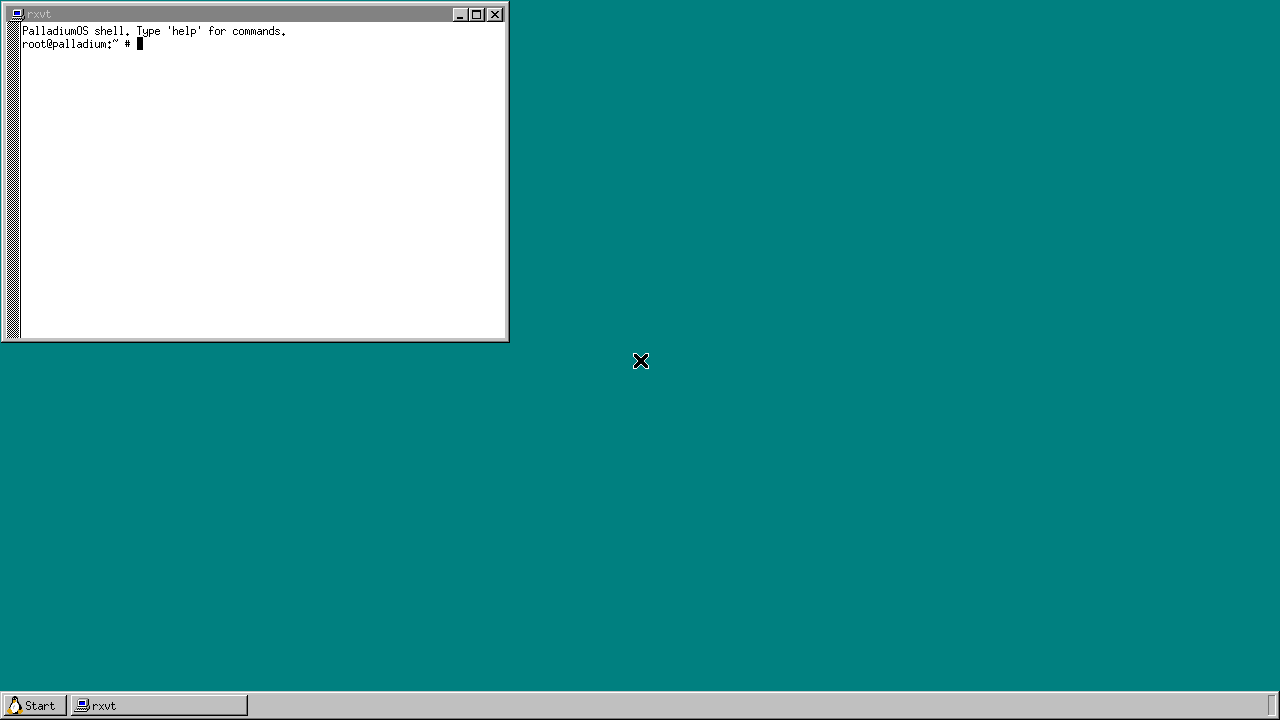
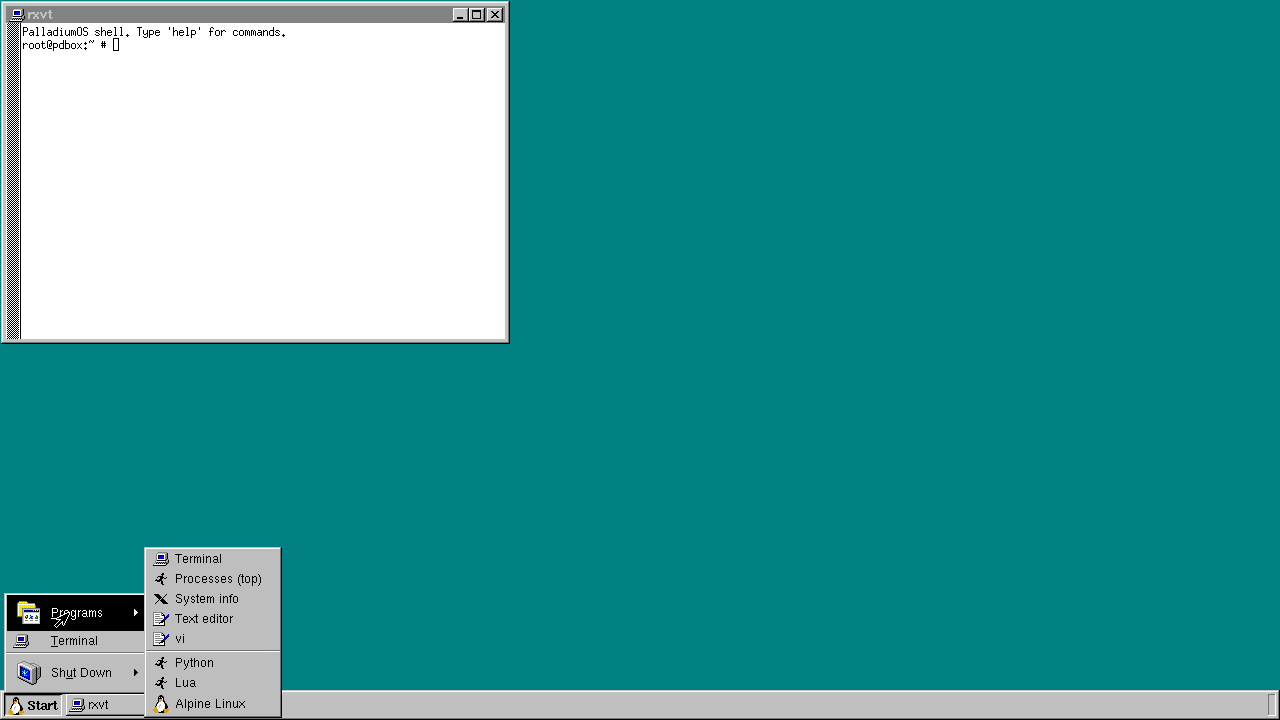
X fonts: Helvetica and the classic bitmap fonts; a 4-core deadlock
X has real fonts now: fvwm95's titles, menus and taskbar are in
Helvetica, as in its own setup, and X programs can ask for misc's fixed
fonts (fixed, 6x13, 7x14, 9x15...) and Adobe's Helvetica, Courier, Times
and New Century Schoolbook.

- tools/ports/fonts.sh: font-misc-misc 1.1.3 and font-adobe-75dpi 1.0.4
  (signed by Alan Coopersmith), compiled to PCF by bdftopcf 1.1.2 (built
  for the build machine), gzipped, into /usr/share/fonts/X11/{misc,75dpi}
  on the system disk (2.6 MB), with fonts.dir written from the fonts'
  names and a fonts.alias for the short names. (Read as BDF, the Unicode
  fixed font kept the X server busy for seconds at every start.) The big
  Japanese and Korean misc fonts are left out.
- tinyx.sh: the default font path is those, then the built-ins.
- fvwm95's configuration: Helvetica 12 (bold titles and Start).
- build-all.sh: fonts; a port's fingerprint includes its own directory
  (tools/ports/fvwm95/'s configuration didn't count).
- A deadlock on more cores, which the desktop found: a process waiting
  for another in a loop around schedule() kept the kernel lock on its
  core, while the other process's core waited for it. schedule(), when
  it has nothing to switch to, now lets the kernel go for a moment.
- README: the fonts, the port, their licences; the desktop screenshot.

Checked in QEMU on 1 and 4 cores: the desktop in Helvetica, up as fast
as before. All 213 tests pass on one core, the 145 usermode tests on 4.
[…]

Changed region(s): [[0.0, 0.7333, 1.0, 1.0], [0.0, 0.0306, 0.4062, 0.4889], [0.5, 0.4889, 0.5312, 0.5194]]

diff --git a/src/process.rs b/src/process.rs
@@ -550,7 +550,24 @@ pub fn schedule() {
             }
             None => return,
         }
-    })
+    });
+    // Nothing else to run here, and the caller goes on: on more cores, let
+    // the kernel go for a moment. The caller may be waiting for a process
+    // another core is running, which may be waiting to get into the kernel
+    // (a loop around schedule() on one core would never let it in).
+    if multi {
+        breathe();
+    }
+}
+
+/// Let other cores have the kernel for a moment (if they want it).
+fn breathe() {
+    if crate::smp::unlock_kernel_for_others() {
+        for _ in 0..64 {
+            core::hint::spin_loop();
+        }
+        crate::smp::lock_kernel();
+    }
 }
 
 /// Let other ready processes run (sched_yield).

diff --git a/src/smp.rs b/src/smp.rs
@@ -122,6 +122,13 @@ pub fn unlock_kernel() {
     let _ = BKL.compare_exchange(me, 0, Ordering::Release, Ordering::Relaxed);
 }
 
+/// Let the big kernel lock go if this core has it, for others to take
+/// (the caller takes it back). Returns whether it was let go.
+pub fn unlock_kernel_for_others() -> bool {
+    let me = cpu_index() + 1;
+    BKL.compare_exchange(me, 0, Ordering::Release, Ordering::Relaxed).is_ok()
+}
+
 /// Inside the kernel until dropped: for interrupt and fault handlers. It
 /// takes the lock if this core didn't have it (it interrupted a program,
 /// or idle), and gives it back when the handler returns.

diff --git a/README.md b/README.md
@@ -251,7 +251,7 @@ Programs can have threads: musl's pthreads (mutexes, condition variables, semaph
 PalladiumOS starts every CPU core the firmware lists (ACPI's MADT): the first one sends the others INIT and startup signals through its local APIC, and each runs a small trampoline below 1 MiB from 16-bit real mode into 64-bit mode, then takes processes from the same scheduler. `nproc`, `/proc/cpuinfo`, `/proc/stat`, htop and `getcpu` see them. `cargo run` gives QEMU as many cores as your machine has, up to 4 (`cargo run -- -smp 2` for another number); the release images boot with any number (`-smp 4` to QEMU).
 
 * Programs run on all cores at the same time: four CPU-bound programs take about as long as one (3.2 times faster than on one core in QEMU).
-* The kernel runs on one core at a time: a core takes the big kernel lock on its way into the kernel (a system call, an interrupt or fault from a program) and lets it go on its way back, so the kernel's code stays as simple as on one CPU. System-call-heavy work doesn't get faster yet.
+* The kernel runs on one core at a time: a core takes the big kernel lock on its way into the kernel (a system call, an interrupt or fault from a program) and lets it go on its way back (or while it waits, and for a moment whenever it looks for something else to run and finds nothing), so the kernel's code stays as simple as on one CPU. System-call-heavy work doesn't get faster yet.
 * A process's threads take turns: two threads of one address space never run at the same moment, so no core ever uses page mappings another core has changed (no TLB shootdowns needed yet).
 * The first core keeps the PIT timer and the devices' interrupts (through its APIC in virtual-wire mode); the others have their APIC's timer, for preemption.
 * `PALLADIUM_SMP=4 cargo test` runs the test suite's programs on 4 cores; `tests/smp.rs` checks starting them.
@@ -284,6 +284,7 @@ Real-world programs are built from their original source by scripts in `tools/po
 * `tools/ports/dropbear.sh`: Dropbear SSH 2026.94 (GPG-signed release, checksum-pinned): `dropbear` (the server), `dbclient` (a client), `dropbearkey` and `scp`. See [SSH](#ssh).
 * `tools/ports/tinyx.sh`: the X server, TinyX's `Xfbdev`, and the X libraries it and X programs need (libX11 on libxcb, libXext, libXfont 1.5 without FreeType, zlib...), static, into `target/ports/x11`. See [X](#the-x-window-system).
 * `tools/ports/x11-clients.sh`: X programs built on those libraries: `rxvt` 2.7.10 (a terminal) and `evilwm` 1.5 (a window manager), patched for the X server's built-in fonts and its lack of XKB.
+* `tools/ports/fonts.sh`: X.Org's bitmap fonts, font-misc-misc 1.1.3 and font-adobe-75dpi 1.0.4, compiled to PCF by bdftopcf 1.1.2 (built for the build machine) and gzipped, with a `fonts.dir` and `fonts.alias` made here, into `/usr/share/fonts/X11` on the system disk (2.6 MB).
 * `tools/ports/fvwm95.sh`: fvwm95 2.0.43f, the window manager with the Windows 95 look, with libXpm 3.5.20 (and xbitmaps' headers), all on the system disk: `/usr/bin/fvwm95` and `xpmroot`, and in `/usr/lib/X11` its modules (FvwmTaskBar...), PalladiumOS's configuration (`tools/ports/fvwm95/system.fvwm95rc`) and its icons.
 
 The binaries are ordinary Linux static executables too, so they can be run on a Linux host to compare behaviour.
@@ -358,7 +359,7 @@ startx evilwm       # or the X server and the programs you name
 * rxvt runs the PalladiumOS shell. Its programs work as anywhere else (`rxvt -e busybox top` runs one in a window of its own).
 * **Ctrl+Alt+Backspace** stops the X server and gives the console back. X's messages are in `/tmp/Xfbdev.log`.
 
-What the kernel provides for it: `/dev/fb0` (the Linux framebuffer ioctls, and `mmap` of the screen itself), the console's VT and keyboard ioctls (graphics mode, medium-raw keycodes, the keymap), a PS/2 mouse (`/dev/input/mice`, `/dev/psaux`, with the IntelliMouse wheel protocol), `SIGIO` on input, and Unix-domain sockets for X's clients. The fonts are libXfont's two built-in ones (`fixed` and `cursor`). `cargo run` gives the screen 1280x720; with the release images, add `-vga none -device VGA,edid=on,xres=1280,yres=720` to QEMU. X needs QEMU's window: click into it for the mouse, and Ctrl+Alt+G lets the mouse go again.
+What the kernel provides for it: `/dev/fb0` (the Linux framebuffer ioctls, and `mmap` of the screen itself), the console's VT and keyboard ioctls (graphics mode, medium-raw keycodes, the keymap), a PS/2 mouse (`/dev/input/mice`, `/dev/psaux`, with the IntelliMouse wheel protocol), `SIGIO` on input, and Unix-domain sockets for X's clients. Fonts: X.Org's classic bitmap fonts in `/usr/share/fonts/X11` (`misc`: `fixed`, `6x13`, `7x14`, `9x15`...; `75dpi`: Adobe's Helvetica, Courier, Times, New Century Schoolbook), Unicode-encoded, which fvwm95 uses (Helvetica) and any X program can ask for (`rxvt -fn 9x15`), then libXfont's built-in `fixed` and `cursor`. `cargo run` gives the screen 1280x720; with the release images, add `-vga none -device VGA,edid=on,xres=1280,yres=720` to QEMU. X needs QEMU's window: click into it for the mouse, and Ctrl+Alt+G lets the mouse go again.
 
 ## Alpine Linux
 PalladiumOS can run [Alpine Linux](https://alpinelinux.org)'s userland, its package manager and its packages, unchanged: Alpine builds everything against musl, dynamically linked, which is what PalladiumOS runs.
@@ -392,7 +393,7 @@ The tiny user programs used by the tests live in `tests/user_progs` (`./build.sh
 |------|------------|---|
 | `/` | ext2 on the disk | saved; falls back to memory if there's no disk |
 | `/bin` | memory | the bundled programs, refreshed every boot |
-| `/usr` | ext2 on the system disk, read-only | BusyBox's links, musl's headers and libraries (for tcc), the shared libraries, fvwm95 and its files, rebuilt every build as `target/usr.img` |
+| `/usr` | ext2 on the system disk, read-only | BusyBox's links, musl's headers and libraries (for tcc), the shared libraries, fvwm95 and its files, X's fonts, rebuilt every build as `target/usr.img` |
 | `/alpine` | ext2 on the Alpine disk | Alpine Linux, once `alpine` has set it up (`target/alpine.img`) |
 | `/tmp` | memory | cleared on reboot |
 | `/dev` | devfs | `null`, `zero`, `random`, `urandom`, `tty`, `console`, `tty0`/`tty1` (the console), `ptmx`, `pts/N`, `fb0` (the screen), `input/mice` and `psaux` (the mouse), `shm/` |
@@ -485,6 +486,7 @@ The release images include software by other people, under their own licences. P
 | [evilwm](https://www.6809.org.uk/evilwm/) | 1.5 | permissive (the aewm and 9wm licences; see its `README`) | `/bin/evilwm` | [evilwm-1.5.tar.gz](https://www.6809.org.uk/evilwm/evilwm-1.5.tar.gz); PalladiumOS's changes are in `tools/ports/x11-clients.sh` |
 | [fvwm95](https://sourceforge.net/projects/fvwm95/) | 2.0.43f | fvwm's licence (Robert Nation's: any use, keeping the copyright notices) for fvwm's own code, GPL-2.0-or-later for the rest (its `GPL`; see each file) | `/usr/bin/fvwm95`, `/usr/bin/xpmroot`, `/usr/lib/X11/fvwm95` (modules), `/usr/lib/X11/pixmaps` and `mini-icons` | [fvwm95-2.0.43f.tar.gz](https://downloads.sourceforge.net/project/fvwm95/fvwm95/2.0.43f/fvwm95-2.0.43f.tar.gz); PalladiumOS's changes and configuration are in `tools/ports/fvwm95.sh` and `tools/ports/fvwm95/` |
 | [libXpm](https://www.x.org), [xbitmaps](https://www.x.org) | 3.5.20, 1.1.4 | MIT/X11-style; see each one's `COPYING` | linked into fvwm95 (libXpm); headers only (xbitmaps) | [libXpm-3.5.20.tar.xz](https://www.x.org/releases/individual/lib/libXpm-3.5.20.tar.xz), [xbitmaps-1.1.4.tar.xz](https://www.x.org/releases/individual/data/xbitmaps-1.1.4.tar.xz) |
+| [X.Org fonts](https://www.x.org): font-misc-misc, font-adobe-75dpi | 1.1.3, 1.0.4 | misc: public domain; Adobe's: their licence (copying and use with the notice; see each one's `COPYING`, also in `/usr/share/fonts/X11/*/COPYING`) | `/usr/share/fonts/X11` (bdftopcf 1.1.2, MIT, only converts them while building) | [font-misc-misc-1.1.3.tar.xz](https://www.x.org/releases/individual/font/font-misc-misc-1.1.3.tar.xz), [font-adobe-75dpi-1.0.4.tar.xz](https://www.x.org/releases/individual/font/font-adobe-75dpi-1.0.4.tar.xz), [bdftopcf-1.1.2.tar.xz](https://www.x.org/releases/individual/util/bdftopcf-1.1.2.tar.xz) |
 | GCC runtime (`libgcc`, `crtbeginS.o`) | 16.2.1 | GPL-3.0 with the GCC Runtime Library Exception | linked into the C programs | [gcc.gnu.org](https://gcc.gnu.org) |
 | Rust crates ([smoltcp](https://github.com/smoltcp-rs/smoltcp), [x86_64](https://github.com/rust-osdev/x86_64), [bootloader](https://github.com/rust-osdev/bootloader), [spin](https://github.com/mvdnes/spin-rs), [pc-keyboard](https://github.com/rust-embedded-community/pc-keyboard)...) | see `Cargo.lock` | permissive: MIT and/or Apache-2.0 for most, 0BSD (smoltcp, managed), Unlicense-or-MIT (byteorder); `cargo metadata` lists each | the kernel | [crates.io](https://crates.io) |
 
